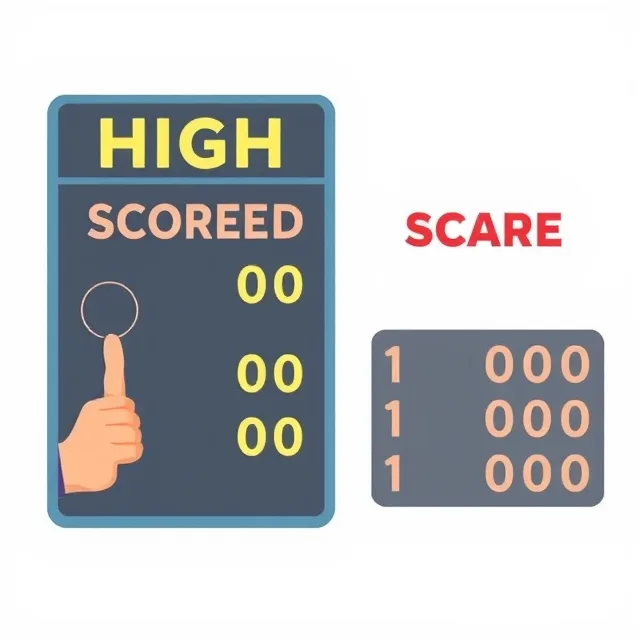
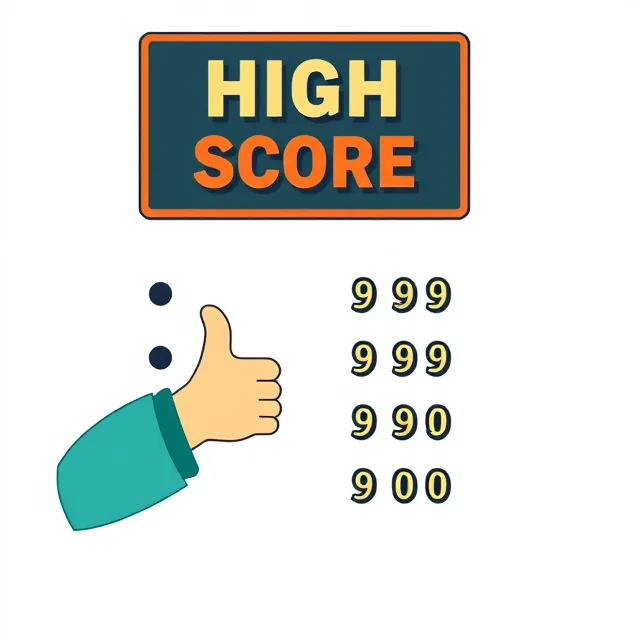
한자어 미달 — 낱말 맞바꿈으로는 안 된다는 것을 재서 확인하고 되돌렸다
· 기출 대비 한자어가 TOPIK I −10.9%p · TOPIK II −15.4%p 모자란다.
· 지문의 고유어를 한자어로 바꾸는 후처리를 넣어 봤다. 형태소로 헤아렸을 때는
  바꿀 자리가 204곳(전체 낱말의 7.5%)이라 28.7%→36.2%까지 오를 것 같았다.
· 실제로 넣고 재니 **+0.1%p** 였다. 활용형이 제각각이라 글자 그대로는 거의 안 걸린다.
  제대로 하려면 형태소 단위로 바꿔야 하는데, 그러면 지문의 말을 그대로 물고 있는
  문항(밑줄 유형·일치 유형)이 어긋날 위험이 커진다.
· 값 못 하는 코드는 두지 않는다는 원칙대로 걷어냈다.
· 남는 결론: 이 미달은 **지문을 처음부터 한자어로 써야** 메워진다. 뒤에서 바꿔 될 일이 아니다.
  베트남 학습자에게 가장 값진 자리라 미룰 문제는 아니지만, 오늘 밤에 될 크기가 아니다.

diff --git a/index.html b/index.html
@@ -11,7 +11,7 @@
 <meta name="apple-mobile-web-app-title" content="짜오짜오">
 <meta name="mobile-web-app-capable" content="yes">
 <title>짜오짜오 — 베트남어</title>
-<link rel="stylesheet" href="style.css?v=5a932a14">
+<link rel="stylesheet" href="style.css?v=a52f4275">
 </head>
 <body>
 
@@ -145,7 +145,7 @@
   </section>
 </main>
 
-<script src="pitch.js?v=5a932a14"></script>
-<script src="app.js?v=5a932a14"></script>
+<script src="pitch.js?v=a52f4275"></script>
+<script src="app.js?v=a52f4275"></script>
 </body>
 </html>

diff --git a/sw.js b/sw.js
@@ -1,7 +1,7 @@
 /* 오프라인 캐시.
    앱 껍데기와 커리큘럼은 처음 열 때 통째로 받아두고,
    음성은 22MB나 되므로 한 번 재생한 것만 캐시에 남긴다 (데이터 요금 배려). */
-const V = 'vn-5a932a14';
+const V = 'vn-a52f4275';
 const SHELL = ['./', './index.html', './app.js', './pitch.js', './style.css',
                './manifest.json', './icon.png',
                './data/days.json', './data/audio_index.json'];
